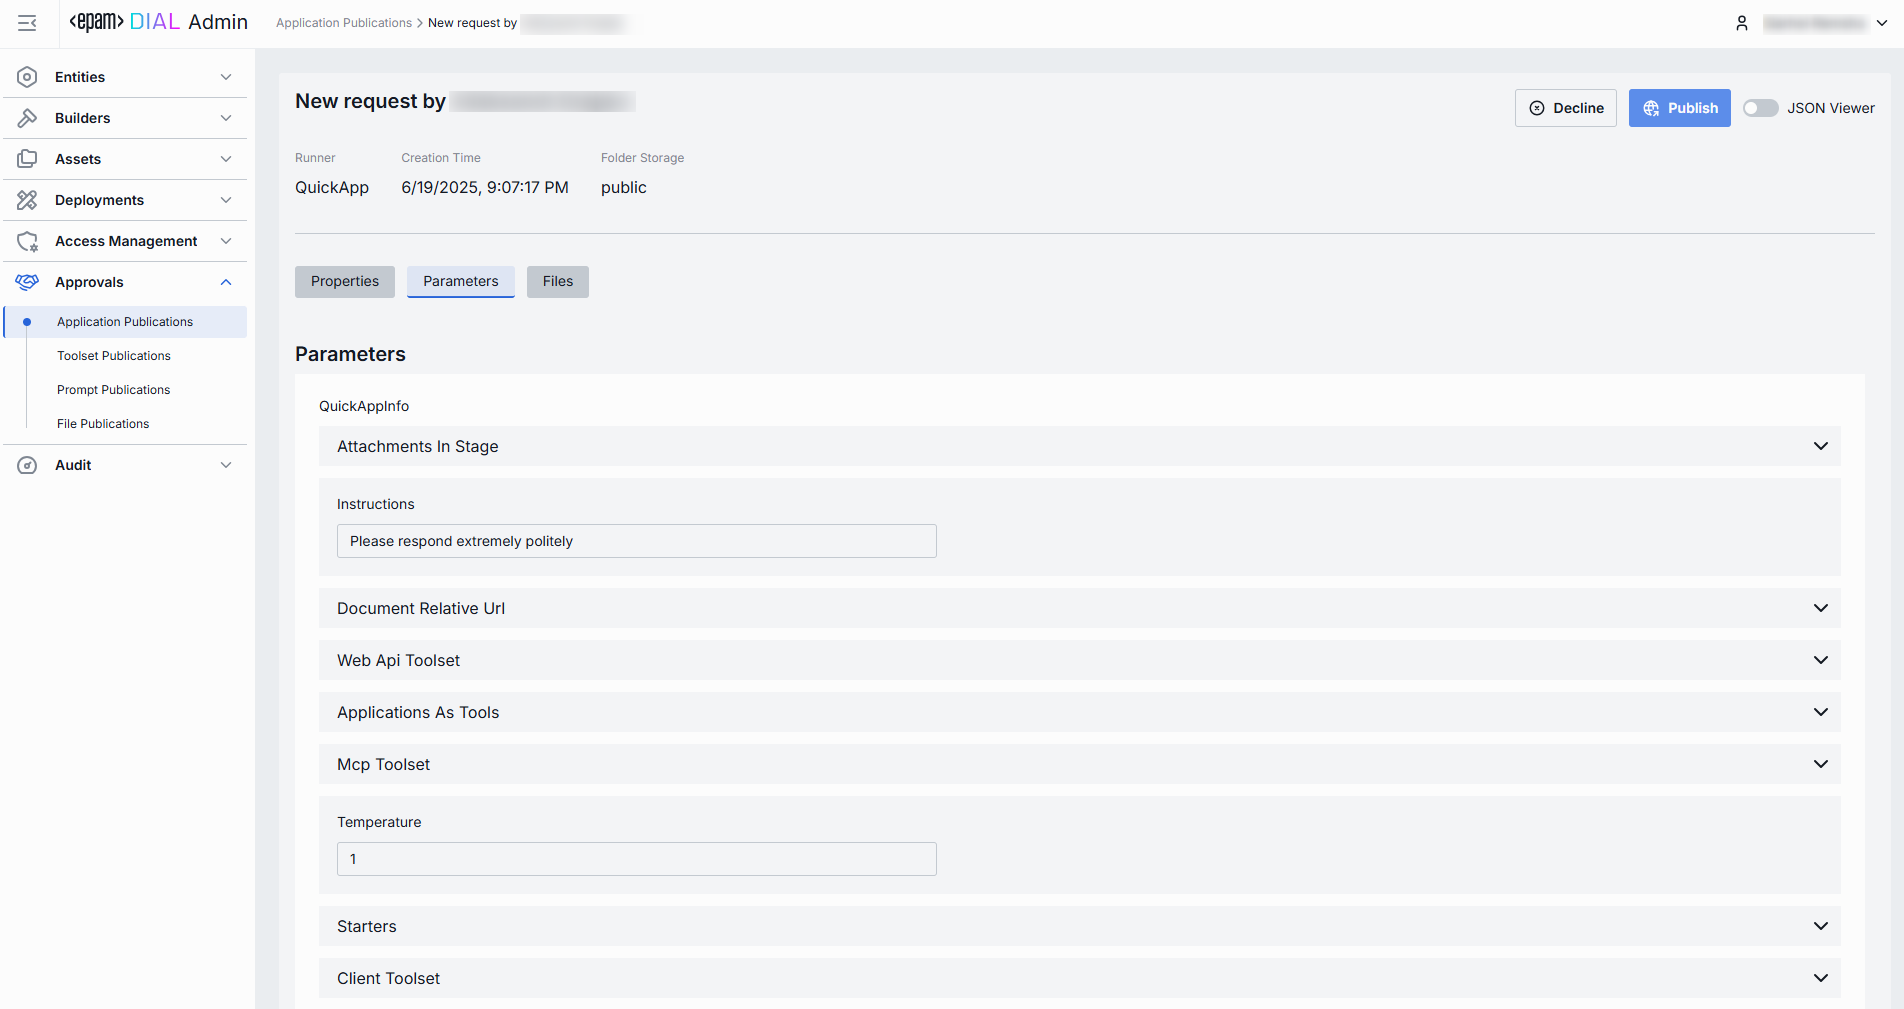
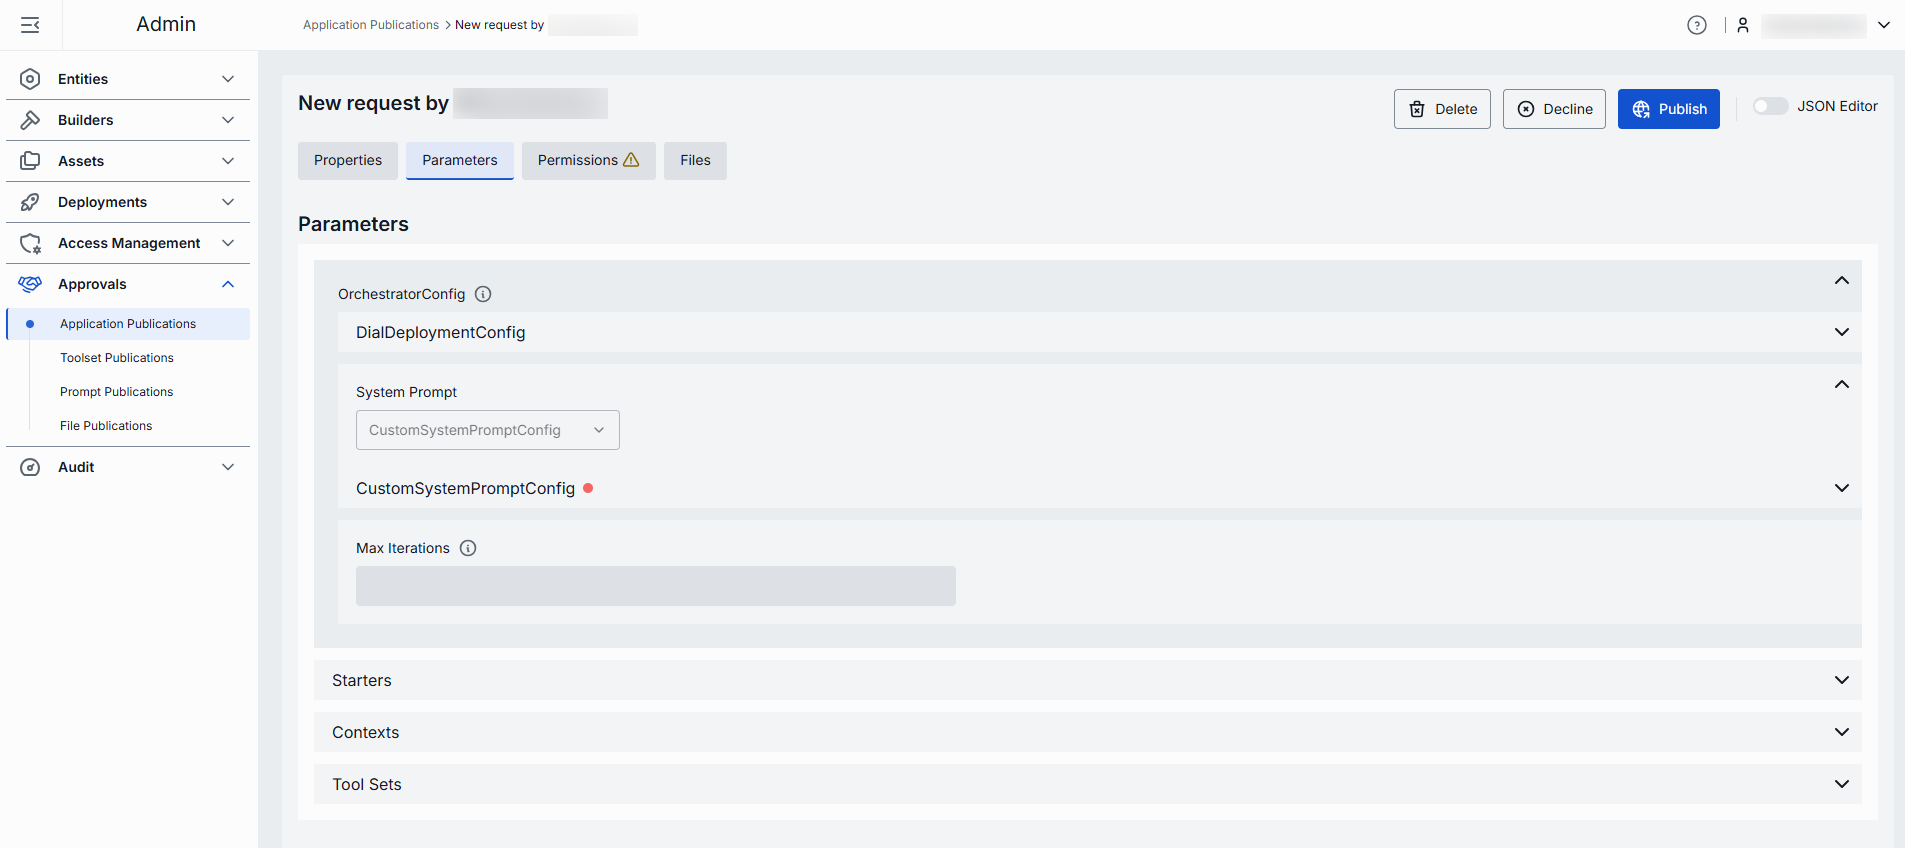
review application publications

diff --git a/docs/tutorials/3.admin/approvals-application-publications.md b/docs/tutorials/3.admin/approvals-application-publications.md
@@ -1,87 +1,109 @@
 # Application Publications
 
-## About Application Publications
+## Introduction
 
-DIAL users can publish their created apps to make them available to other users. Published apps become available in the public folder and can be accessible to users based on the access rules defined in the publication request. You can access published apps in [Assets/Applications](/docs/tutorials/3.admin/assets-applications.md) section. Published apps can be unpublished by DIAL admin or other DIAL users.
+DIAL users can publish their private applications to enable access to other users. Each publication request undergoes a review by DIAL administrators to ensure safety and security.
 
-Apps can be published/unpublished using DIAL Core [API](https://dialx.ai/dial_api#tag/Publications/operation/createPublication) or in [DIAL Chat](/docs/tutorials/0.user-guide.md#publications).
+> You can find all published applications in [Assets/Applications](/docs/tutorials/3.admin/assets-applications.md) section. 
 
-In this section of the DIAL Admin panel, admins can access and approve or decline apps publication requests.
+In this section of the DIAL Admin panel, admins can access and approve or decline requests to publish applications.
 
 > * Refer to [Publications](/docs/platform/7.collaboration-intro.md#publication) to learn more about publications in DIAL.
 > * Refer to [DIAL Chat User Guide](/docs/tutorials/0.user-guide.md#publications) to learn about the publication process from the perspective of a DIAL Chat end-user.
+> * Refer to [Publication API](https://dialx.ai/dial_api#tag/Publications) for programmatic creation and management of publication requests.
 
-## Application Publications List
+## Main Screen
 
-The Application Publications screen shows all publish/unpublish requests submitted by end-users using the DIAL API. 
+The Application Publications screen shows all publish/unpublish requests submitted by end-users using [Publication API](https://dialx.ai/dial_api#tag/Publications). 
 
-![ ](img/93.png)
+![ ](img/92.png)
 
-##### Application Publications Grid
+##### Application publications grid
 
-| Field            | Definition      |
-|------------------|---------------------------------------------------------------------------------------------------------------------------------|
-| **Name**         | The title of the submitted publication request (not the application).           |
-| **Author**       | The user who has submitted the publication request. Can be used to follow up with the creator if something needs clarification. |
-| **Created at**   | Publication request submission's timestamp.         |
+| Column | Description |
+|--------|--------------|
+| **Name** | Title of the submitted publication request (not the application). |
+| **Author** | The user who has submitted the publication request. |
+| **Creation time** | Publication request submission's timestamp. |
 
+## Review Publication Request
 
-## Review Page
+Click any publication request on the main screen to access the review page. On this page, you can inspect the selected request and decide whether to **Publish**, **Unpublish**, **Decline** or delete it.
 
-Click any publication request on the main screen to access the review page. On this page, you can inspect the selected request and decide whether to **Publish**, **Unpublish** or **Decline** it.
+**Note**, that administrators can also modify selected properties in the request and take action on the modified request.
 
-##### Publication Request Controls
+##### Top Bar Controls
 
 * **Publish**: Applies to publish requests. Use to approve the request.
 * **Unpublish**: Applies to unpublish requests. Use to approve the request and remove the published application from the public folder and make it inaccessible to other users.
 * **Decline**: Reject the publish/unpublish request. Prompts you to enter a decline reason that will be sent back to the request author.
+* **Delete**: Deletes the request.
 
-![](img/publish-toolset.png)
+![](img/publication-actions.png)
 
-![](img/unpublish-toolset.png)
+![](img/publication-actions-unpublish.png)
 
-| Field              | Definition   |
-|--------------------|--------------|
-| **Runner**         | The application runner that is used by this app (shown as a URL).        |
-| **Author**         | The user who has submitted the publication request. Can be used to follow up with the creator if something needs clarification. |
-| **Create Time**    | The publication request's submission timestamp.          |
-| **Folder Storage** | The path to the file storage folder where the application assets will be saved in case it is published.  |
+### Properties
 
-![](img/94.png)
+In this tab you can access and modify the selected properties of the application being published.
 
+| Property | Editable | Description | 
+|----------|----------|-------------|
+| **Action** | No | Action to be taken on this request: Publish (to publish application) or Unpublish (to remove the application form the Public folder in DIAL file system). |
+| **Creation Time** | No | Publication request creation timestamp. |
+| **Author** | No | Name of the publication request creator. |
+| **Folder Storage** | Yes | The path to the target folder in the Public file storage where the published application will be stored. <br /> Use **Move to** to change the initial setting provided in the publication request. |
+| **ID** | Yes |Unique identifier of the application. |
+| **Display Name** | Yes | Name of the application displayed on UI. |
+| **Version** | Yes | Version of the application to be published. |
+| **Description** | Yes | Description of the application. |
+| **Icon** | Yes | Application's icon that will be rendered on UI. |
+| **Topics** | Yes | Topics are semantic labels that you can assign to apps (e.g. "finance", "support") for better navigation on UI. Click to display a list of available topics. <br /> You can add your own custom topics to the list following these rules:<br />- The topic name must not exceed 255 characters.<br />- The topic name must not contain leading or trailing spaces. |
+| **Source type** | Yes | Source type of application.<br />- **Endpoints**: Application with this source type is a standalone application. DIAL Core communicates with such application via the explicitly-provided endpoints.<br />- **Application runner**: Application runners can be seen as application factories, allowing users to create logical instances of apps with different configurations. Application runners are based on JSON schemas, which define structure, properties and endpoints for applications. In [Builders/Application Runners](/docs/tutorials/3.admin/builders-application-runners.md) you can see all the available runners and add new ones. |
+| **Application runner** | Yes | Select one of the available application runners. If the application is created based on an application runner, DIAL Core will forward all payloads to endpoints defined in the [application runner configuration](/docs/tutorials/3.admin/builders-application-runners.md#features). Required if Source Type is **Application runner**. |
+| **Completion endpoint** | Yes | Chat completion endpoint of the application. Required if Source Type is **Endpoints**. |
+| **Attachment types** | Yes | Use to define the [attachment types](/docs/tutorials/1.developers/3.chat/0.chat-objects.md#attachments) (images, files) this app can have:  <br />**Available values**:<br /> **No attachments**: Disables all attachment types.  <br /> **All attachments types**: Allows all types of file attachments. Optionally specify max number of attachments. <br /> **Specific attachments types**: Enables the user to define/select specific [MIME types](https://developer.mozilla.org/en-US/docs/Web/HTTP/Basics_of_HTTP/MIME_types/Common_types). Start typing to see suggestions or use `<type>/<subtype>` format for a manual entry. |
+| **Attachments max number** | Yes | Maximum number of input attachments. Enabled if attachment types are defined. |
+| **Defaults** | Yes | Default parameters for the application. Default parameters are applied if a request doesn't contain them in OpenAI chat/completions API call. |
+| **Forward auth token** | Yes | Select a downstream auth token to forward from the user's session (for multi-tenant downstream). |
+| **Max retry attempts** | Yes | Number of times DIAL Core will [retry](/docs/platform/3.core/5.load-balancer.md#fallbacks) a failed run (due to timeouts or 5xx errors). |
 
-### Properties Tab
+![](img/app-publication-properties.png)
 
-The Properties tab shows the basic information about the app and related access rules. 
+**Advanced users with technical expertise** can work with the publication request properties in a JSON editor view mode. It is useful for advanced scenarios and/or tweaking settings not exposed on UI.
 
-| Field            | Definition |
-|------------------|-----------|
-| **Display Name**         | The name of the application that will be rendered in [DIAL Marketplace](/docs/tutorials/0.user-guide.md#marketplace). It must be clear and policy-safe.   |
-| **Version**      | Semantic version of the application (e.g., `0.0.1`) set on the DIAL chat side.           |
-| **Description**  | Summary of app's purpose and capabilities specified by the submitting user. Helps assess app's fit and scope.            |
-| **Icon**         | The application's icon that will be rendered on UI.      |
-| **Topics**       | Tags/categories (e.g., “Text Generation”, “Informational”) used for the app discovery in [DIAL Marketplace](/docs/tutorials/0.user-guide.md#marketplace). |
-| **Permissions**  | The proposed access rules to the published application (e.g., based on user group). Ensure the audience matches intended reach. If rules are not defined, the published resources will be available to all users. <br /> Available Controls:<br /> - **Review structure** opens a modal showing the storage folders tree and apps' folder position in the hierarchy.<br />- **Compare changes** side-by-side diff of **current vs proposed** permission rules to the app's folder. Use to verify and validate changes in access rules before approving the publication request.  |
+> **TIP**: You can switch between UI and JSON only if there are no unsaved changes.
 
-![](img/95.png)
+![](img/publish-app-json-editor.png)
 
-### Parameters Tab
+### Parameters
 
-The Parameters tab provides administrators with technical metadata and runtime configuration related to the application. 
-
-The content of this tab may vary depending on the app's type and configuration.
+The Parameters tab within an application’s configuration allows administrators to manage application-specific parameters that influence its behavior. The content of this screen is determined by the [parameters of the related application runner](/docs/tutorials/3.admin/builders-application-runners.md#parameters).
 
 ![](img/publish-app-params.png)
 
-### Files Tab
+### Permissions
 
-In this tab you can find a list of application-related assets. This section is empty if the application does not include any files.
+If not defined otherwise, objects are published into the root (Public) folder in DIAL file storage by default. All authenticated users have access to this folder. To define access restrictions, publication request author can create a sub-folder and select it in the **Publish to** field in the publication request. Sub-folders can have access rules applied to them. Refer to [Access Rules](/docs/tutorials/3.admin/access-management-folders-storage.md#access-rules) to learn more.
 
-| Field         | Definition       |
-|---------------|----------------------------------------------------------------------------------|
-| **Name**      | System-generated identifier of the file.         |
-| **Extension** | File type (e.g., `.json`, `.png`).               |
-| **Preview**   | An action button in the row menu can be used to open the file in a new tab.      |
-| **Download**  | An action button in the row menu can be used to download the file to a local PC. |
+In this section, you can see and modify access rules if they apply to the selected publication request.
 
-![](img/96.png)
+![](img/publish-app-permissions.png)
+
+### Files
+
+If application includes files, they are published together with the application. For example, a talk-to-your-data application can include source files it uses to generate responses.
+
+In this section, you can access and manage all files published with the application. 
+
+| Field | Description |
+|-------|-------------|
+| **Display Name** | Name of the file. |
+| **Extension** | File extension (e.g., `.json`, `.png`). |
+| **Actions** | - **Preview**: Use the preview file content. Can be disabled for specific types of files.<br /> - **Download**: Use to save file on your device.<br /> - **Remove**: Use to remove file from the publication request. | 
+
+![](img/publish-app-files.png)
+
+Use **Add** to attach files to a publication request.
+
+![](img/publish-app-files-actions.png)
